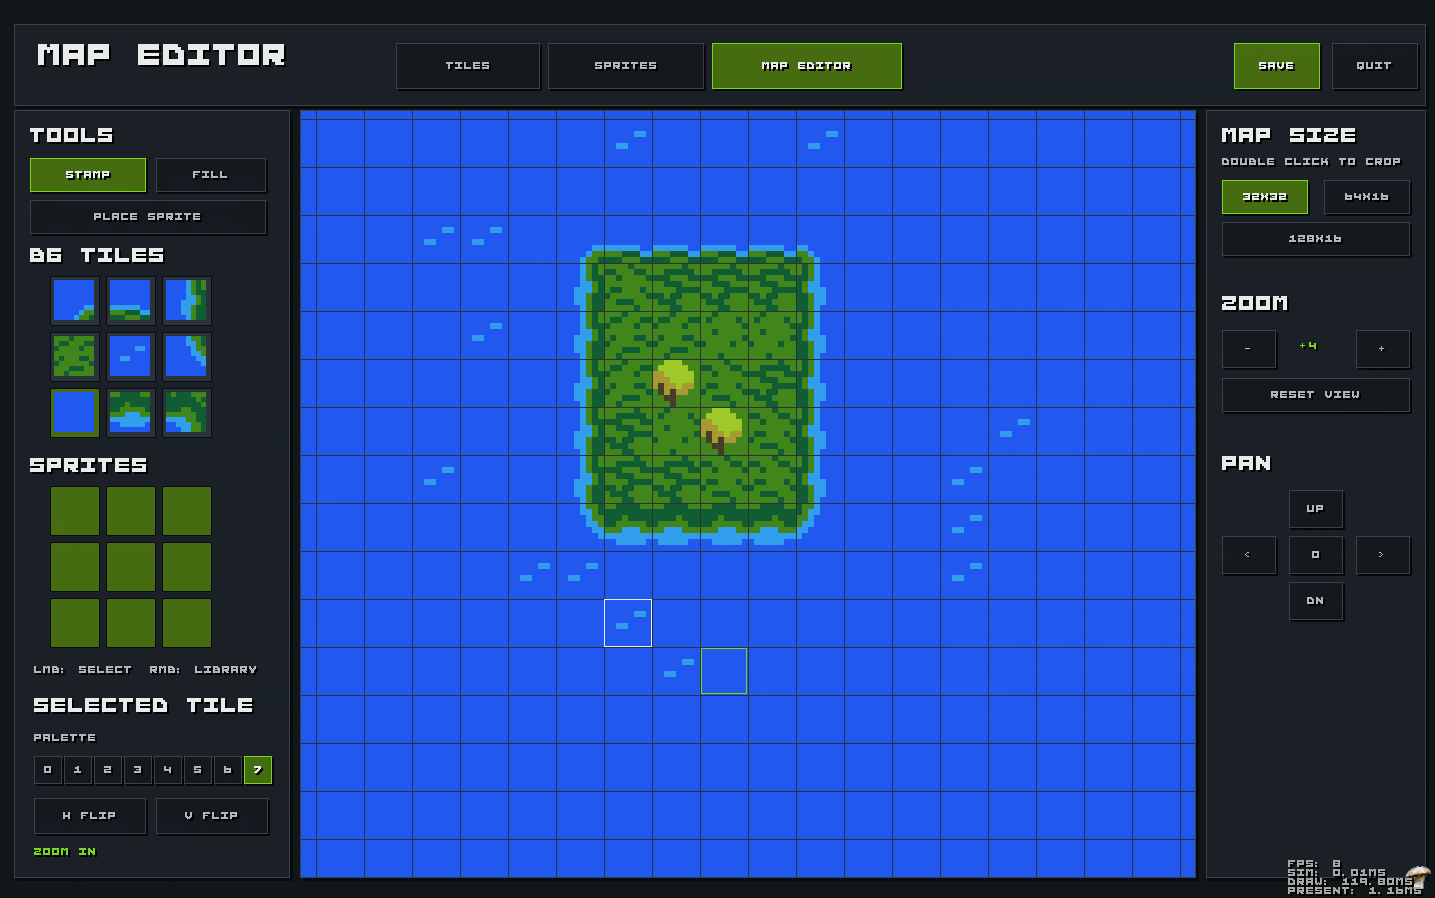
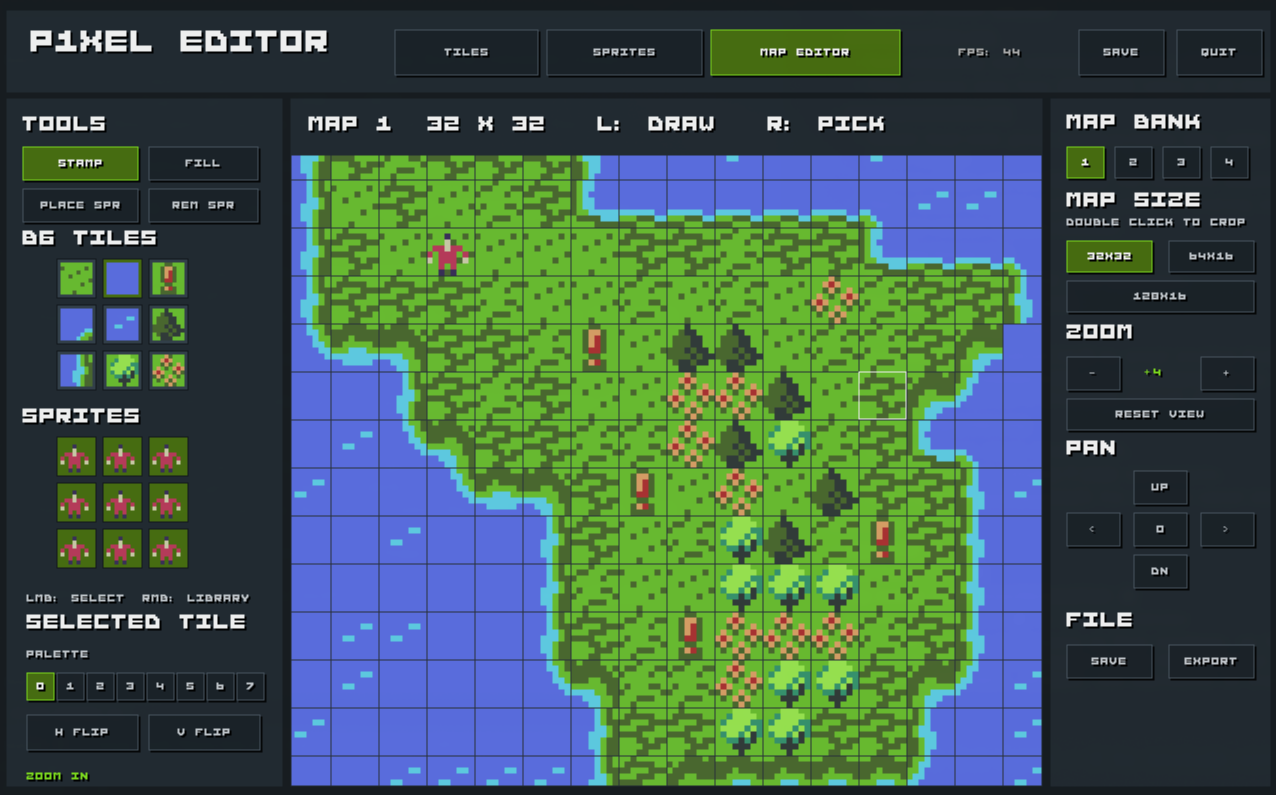
README

diff --git a/README.md b/README.md
@@ -6,6 +6,8 @@ It is designed around a classic indexed-colour workflow: artwork is stored as ti
 
 ![P1Xel Editor - Tiles Editor ](docs/screenshot-tiles.png)
 
+![P1Xel Editor - Sprites Editor ](docs/screenshot-sprites.png)
+
 ![P1Xel Editor - Map Editor ](docs/screenshot-map.png)
 
 Exported to GameBoy Color Engine: